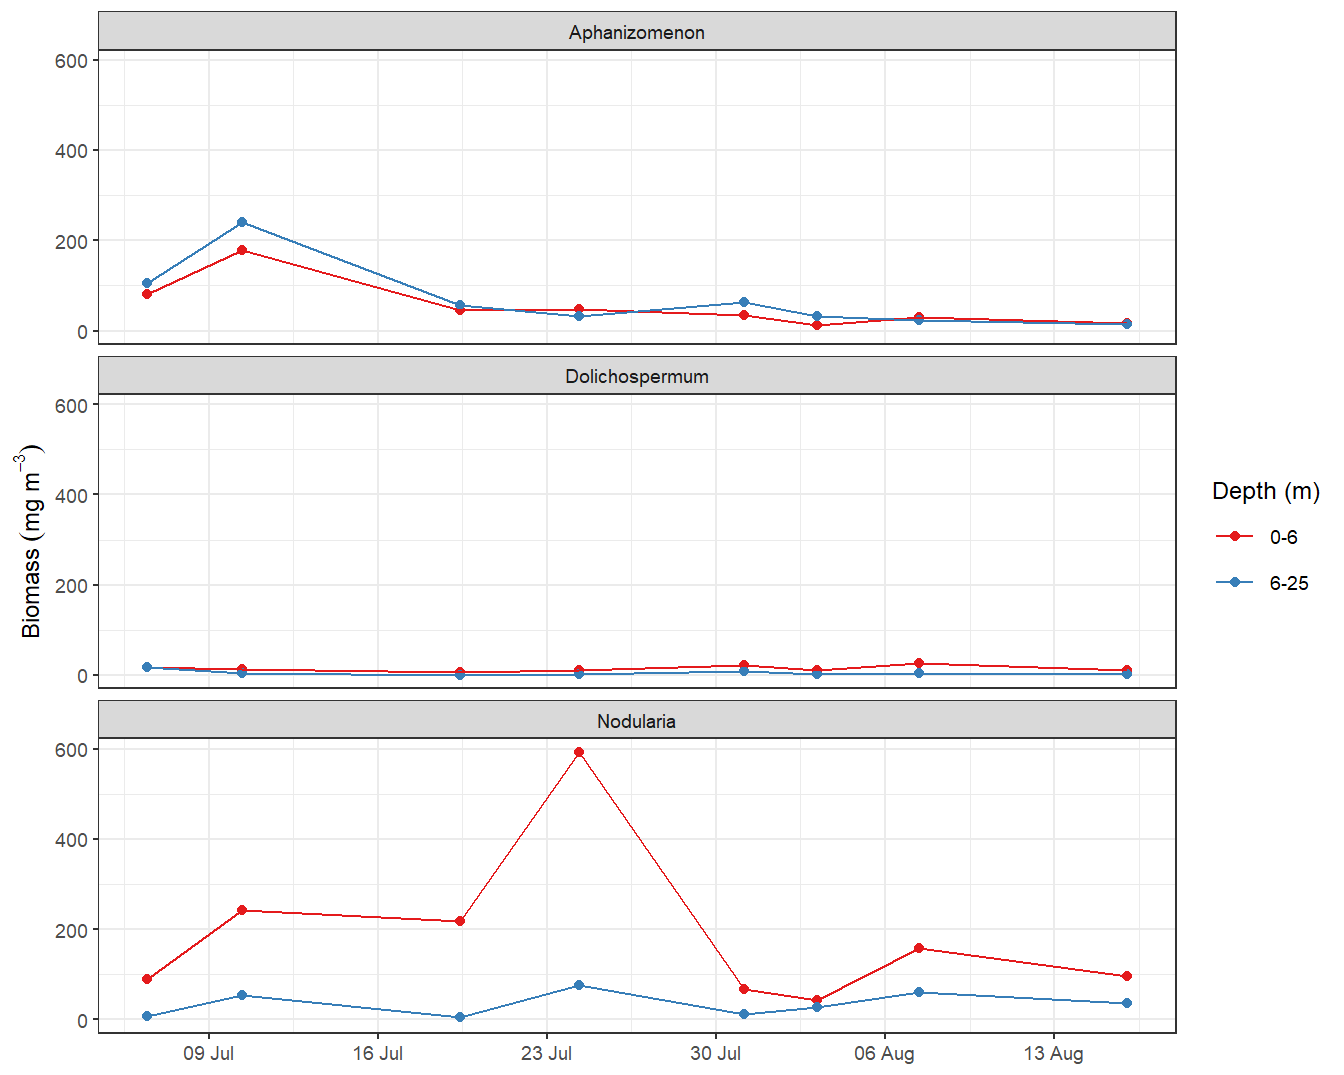
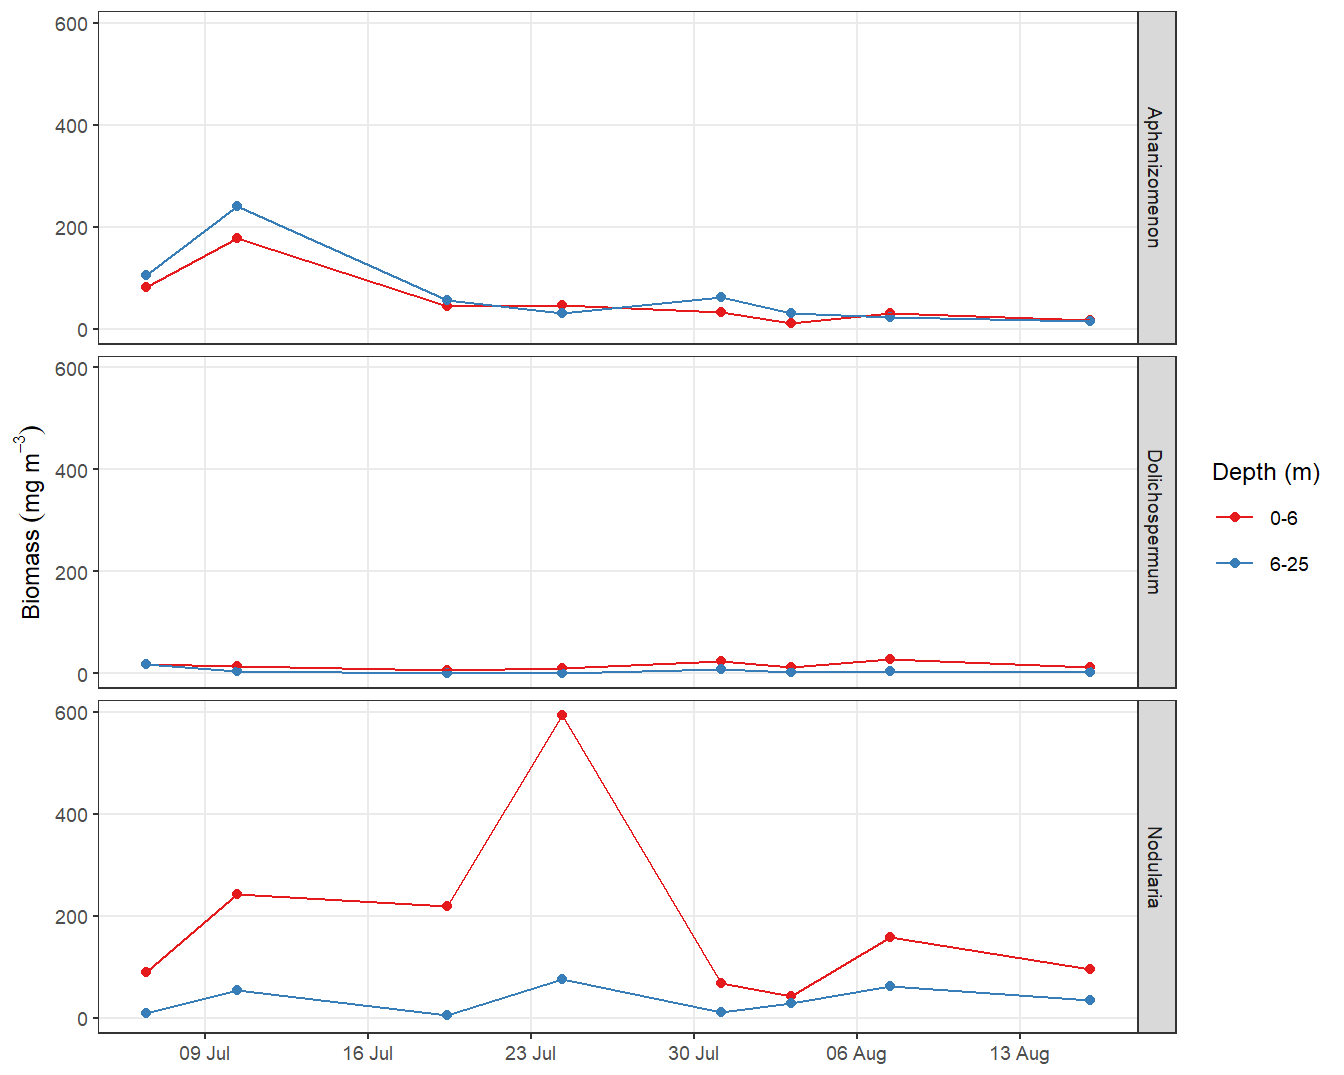
Build site.

diff --git a/docs/Phytoplankton.html b/docs/Phytoplankton.html
@@ -449,7 +449,7 @@ div.tocify {
 
 <h1 class="title toc-ignore">Phytoplankton dynamics</h1>
 <h4 class="author">Jens Daniel Müller</h4>
-<h4 class="date">16 April, 2021</h4>
+<h4 class="date">10 May, 2021</h4>
 
 </div>
 
@@ -474,7 +474,7 @@ div.tocify {
 <div class="tab-content">
 <div id="summary" class="tab-pane fade in active">
 <p>
-<strong>Last updated:</strong> 2021-04-16
+<strong>Last updated:</strong> 2021-05-10
 </p>
 <p>
 <strong>Checks:</strong> <span class="glyphicon glyphicon-ok text-success" aria-hidden="true"></span> 7 <span class="glyphicon glyphicon-exclamation-sign text-danger" aria-hidden="true"></span> 0
@@ -565,16 +565,16 @@ This reproducible <a href="http://rmarkdown.rstudio.com">R Markdown</a> analysis
 <div class="panel panel-default">
 <div class="panel-heading">
 <p class="panel-title">
-<a data-toggle="collapse" data-parent="#workflowr-checks" href="#strongRepositoryversionstrongahrefhttpsgithubcomjensdanielmuellerBloomSailtreebbfb05351176db8ec7ec23f720184aa1d292aaa2targetblankbbfb053a"> <span class="glyphicon glyphicon-ok text-success" aria-hidden="true"></span> <strong>Repository version:</strong> <a href="https://github.com/jens-daniel-mueller/BloomSail/tree/bbfb05351176db8ec7ec23f720184aa1d292aaa2" target="_blank">bbfb053</a> </a>
+<a data-toggle="collapse" data-parent="#workflowr-checks" href="#strongRepositoryversionstrongahrefhttpsgithubcomjensdanielmuellerBloomSailtreebc5c2d05a30d441674ba1b2d62e3778b2e828c60targetblankbc5c2d0a"> <span class="glyphicon glyphicon-ok text-success" aria-hidden="true"></span> <strong>Repository version:</strong> <a href="https://github.com/jens-daniel-mueller/BloomSail/tree/bc5c2d05a30d441674ba1b2d62e3778b2e828c60" target="_blank">bc5c2d0</a> </a>
 </p>
 </div>
[2 lines of base64/hex data omitted]
 <div class="panel-body">
 <p>
 Great! You are using Git for version control. Tracking code development and connecting the code version to the results is critical for reproducibility.
 </p>
 <p>
-The results in this page were generated with repository version <a href="https://github.com/jens-daniel-mueller/BloomSail/tree/bbfb05351176db8ec7ec23f720184aa1d292aaa2" target="_blank">bbfb053</a>. See the <em>Past versions</em> tab to see a history of the changes made to the R Markdown and HTML files.
+The results in this page were generated with repository version <a href="https://github.com/jens-daniel-mueller/BloomSail/tree/bc5c2d05a30d441674ba1b2d62e3778b2e828c60" target="_blank">bc5c2d0</a>. See the <em>Past versions</em> tab to see a history of the changes made to the R Markdown and HTML files.
 </p>
 <p>
 Note that you need to be careful to ensure that all relevant files for the analysis have been committed to Git prior to generating the results (you can use <code>wflow_publish</code> or <code>wflow_git_commit</code>). workflowr only checks the R Markdown file, but you know if there are other scripts or data files that it depends on. Below is the status of the Git repository when the results were generated:
@@ -588,30 +588,6 @@ Ignored files:
 
 Untracked files:
     Untracked:  data_os-2020-120_submission.zip
-
-Unstaged changes:
-    Modified:   code/Workflowr_project_managment.R
-    Modified:   output/Plots/Figures_publication/Appendix/Fig_A1.pdf
-    Modified:   output/Plots/Figures_publication/Appendix/Fig_A2.pdf
-    Modified:   output/Plots/Figures_publication/Appendix/Fig_A2.png
-    Modified:   output/Plots/Figures_publication/Appendix/Fig_B1.pdf
-    Modified:   output/Plots/Figures_publication/Appendix/Fig_C1.pdf
-    Modified:   output/Plots/Figures_publication/Appendix/Fig_C2.pdf
-    Modified:   output/Plots/Figures_publication/Appendix/Fig_C3.pdf
-    Modified:   output/Plots/Figures_publication/Appendix/Fig_C3.png
-    Modified:   output/Plots/Figures_publication/Appendix/Fig_C4.pdf
-    Modified:   output/Plots/Figures_publication/Article/Fig_1.pdf
-    Modified:   output/Plots/Figures_publication/Article/Fig_1.png
-    Modified:   output/Plots/Figures_publication/Article/Fig_2.pdf
-    Modified:   output/Plots/Figures_publication/Article/Fig_3.pdf
-    Modified:   output/Plots/Figures_publication/Article/Fig_3.png
-    Modified:   output/Plots/Figures_publication/Article/Fig_4.pdf
-    Modified:   output/Plots/Figures_publication/Article/Fig_4.png
-    Modified:   output/Plots/Figures_publication/Article/Fig_5.pdf
-    Modified:   output/Plots/Figures_publication/Article/Fig_5.png
-    Modified:   output/Plots/Figures_publication/Article/Fig_6.pdf
-    Modified:   output/Plots/Figures_publication/Article/Fig_6.png
-    Modified:   output/Plots/response_time/tau_determination_pCO2_corr_flushperiods_nls.pdf
 
 </code></pre>
 <p>
@@ -650,6 +626,40 @@ Message
 </tr>
 </thead>
 <tbody>
+<tr>
+<td>
+Rmd
+</td>
+<td>
+<a href="https://github.com/jens-daniel-mueller/BloomSail/blob/bc5c2d05a30d441674ba1b2d62e3778b2e828c60/analysis/Phytoplankton.Rmd" target="_blank">bc5c2d0</a>
+</td>
+<td>
+jens-daniel-mueller
+</td>
+<td>
+2021-05-10
+</td>
+<td>
+removed grid lines
+</td>
+</tr>
+<tr>
+<td>
+html
+</td>
+<td>
+<a href="https://rawcdn.githack.com/jens-daniel-mueller/BloomSail/61e452cfda4eea5680fdd9d082f3e1cf6127f2da/docs/Phytoplankton.html" target="_blank">61e452c</a>
+</td>
+<td>
+jens-daniel-mueller
+</td>
+<td>
+2021-04-16
+</td>
+<td>
+Build site.
+</td>
+</tr>
 <tr>
 <td>
 html
@@ -1484,11 +1494,12 @@ tp_ID_grid &lt;- full_join(cruise_dates, tp_ID_grid)</code></pre>
   ggplot(aes(date_time_ID, value, col = dep_grid)) +
   geom_point() +
   geom_line() +
-  facet_wrap(~ Species, ncol = 1) +
+  facet_grid(Species~.) +
   scale_color_brewer(palette = &quot;Set1&quot;, name = &quot;Depth (m)&quot;) +
   scale_x_datetime(breaks = &quot;week&quot;, date_labels = &quot;%d %b&quot;) +
   labs(y = expression(Biomass ~ (mg~m^-3))) +
-  theme(axis.title.x = element_blank())</code></pre>
+  theme(axis.title.x = element_blank(),
+        panel.grid.minor = element_blank())</code></pre>
 <p><img src="figure/Phytoplankton.Rmd/phytoplankton_time_series-1.png" width="672" style="display: block; margin: auto;" /></p>
 <pre class="r"><code>ggsave(
   here::here(
@@ -1521,7 +1532,7 @@ ggsave(
 <pre class="r"><code>sessionInfo()</code></pre>
 <pre><code>R version 4.0.3 (2020-10-10)
 Platform: x86_64-w64-mingw32/x64 (64-bit)
-Running under: Windows 10 x64 (build 18363)
+Running under: Windows 10 x64 (build 19042)
 
 Matrix products: default
 
